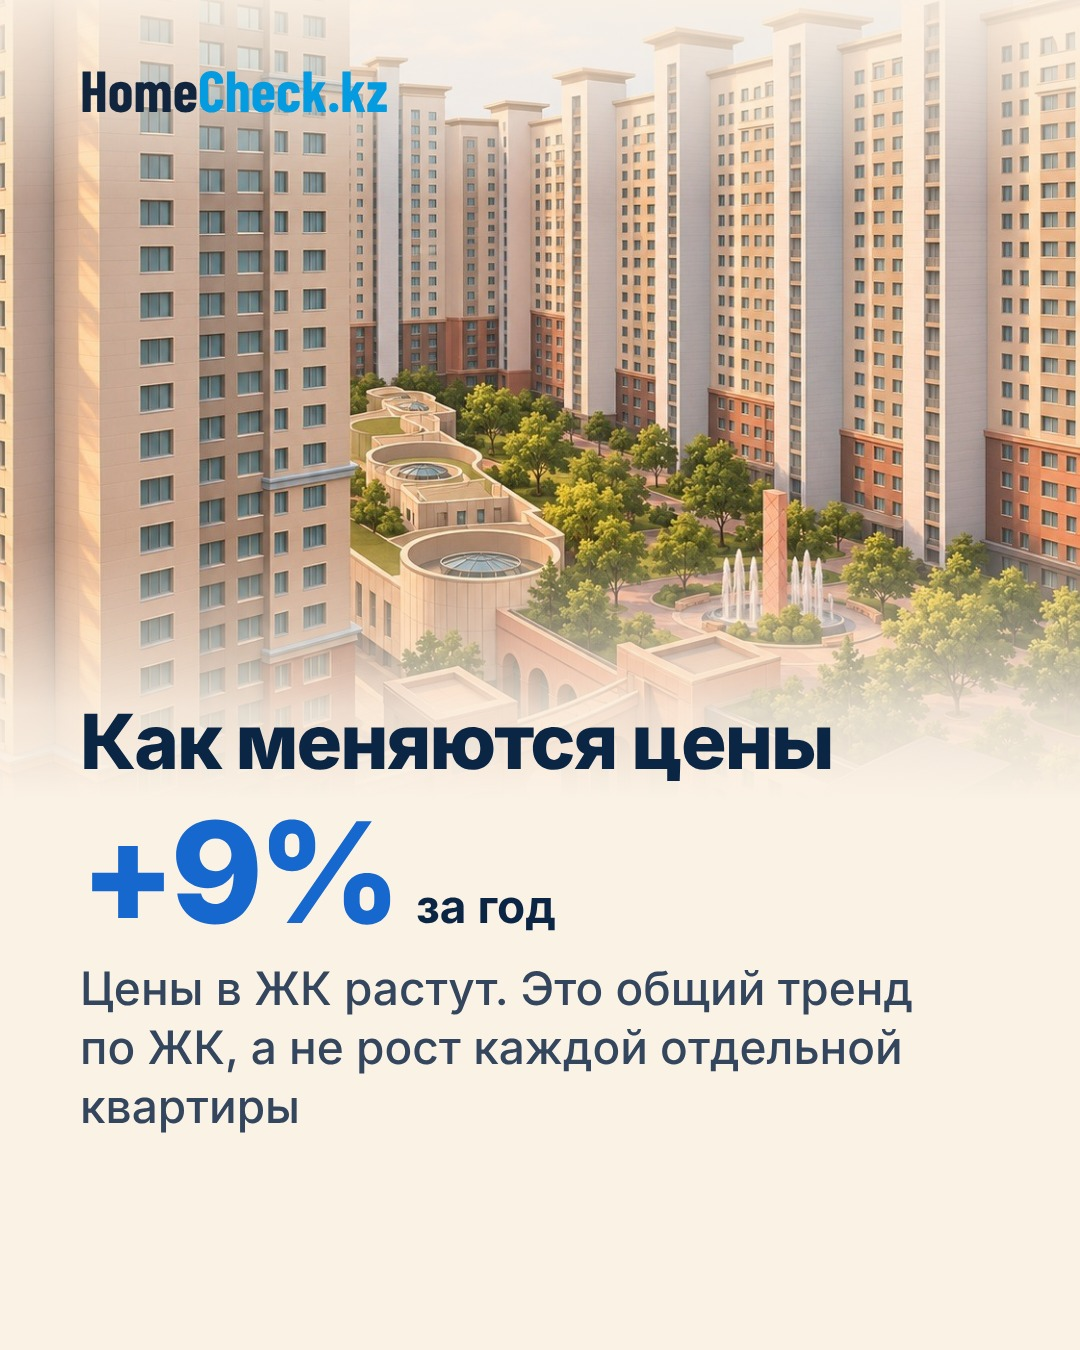
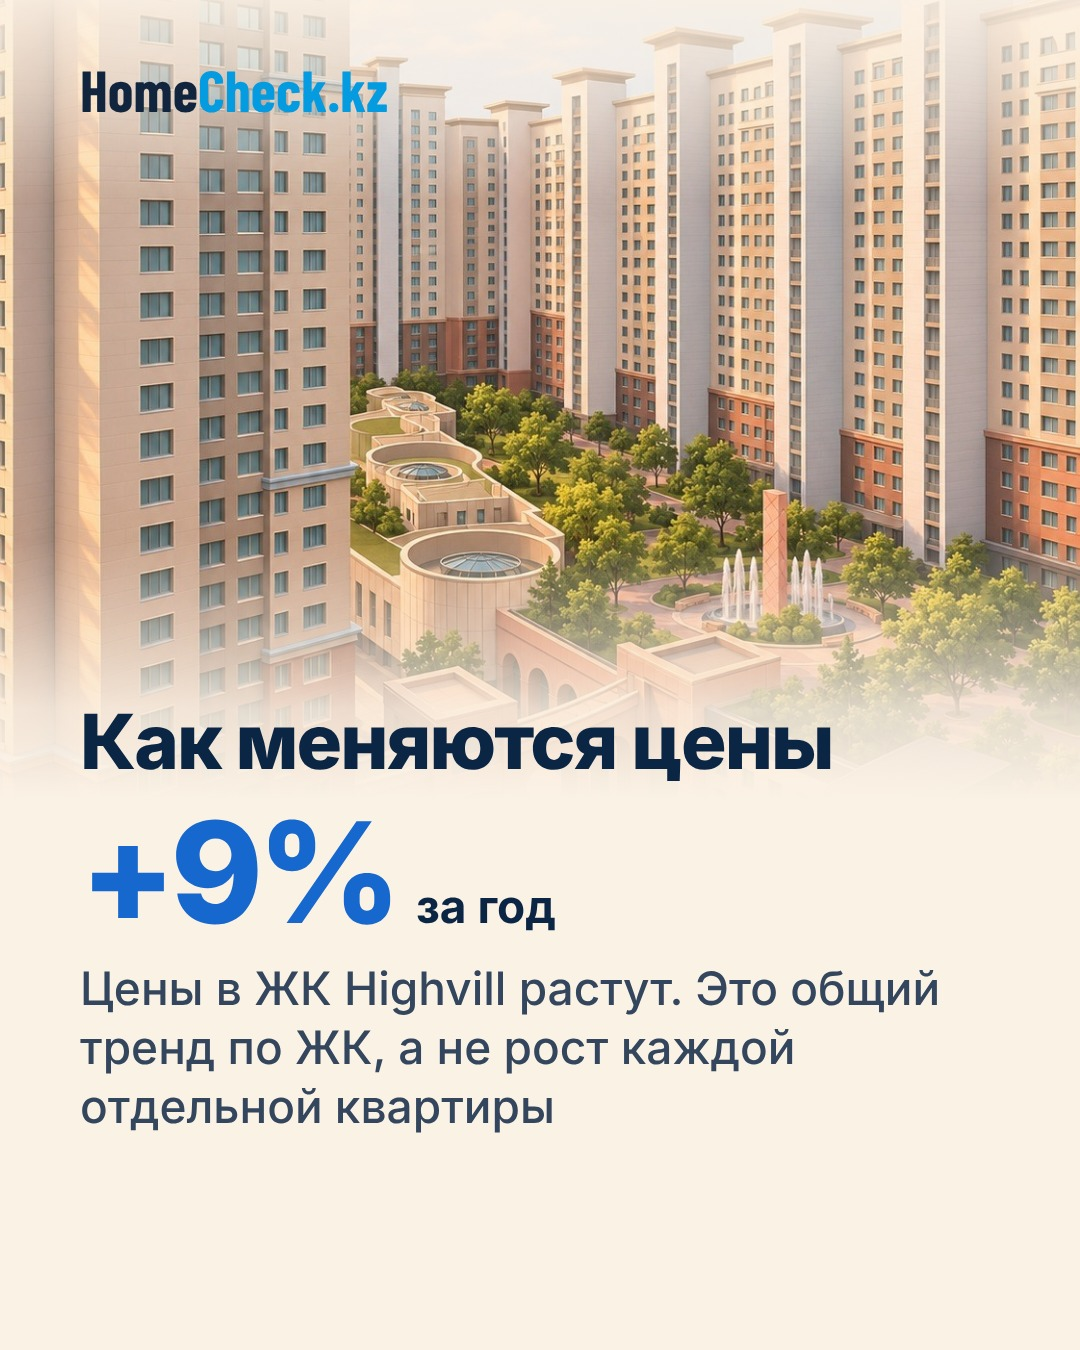
Highvill: «ЖК Highvill» на обложке и слайде 3
Claude-Session: https://claude.ai/code/session_01YPTRhbcfXRBnSeVtmn8ipe

Changed region(s): [[0.0611, 0.7156, 0.8861, 0.84]]

diff --git a/posts/zhk-bez-filtrov-01-hayvill/build.py b/posts/zhk-bez-filtrov-01-hayvill/build.py
@@ -10,7 +10,7 @@ from PIL import Image
 
 HERE = pathlib.Path(__file__).resolve().parent
 NAVY, BLUE, TERRA, CREAM, SKY = '#0B2545', '#1768CE', '#B8613F', '#FBF2E6', '#DCEAF6'
-NAME = 'Highvill'
+NAME = 'ЖК Highvill'
 IMG = {n: data_uri(Image.open(HERE / 'src' / f'{n}.jpg')) for n in ['interior', 'towers', 'aerial', 'courtyard']}
 
 CSS = f"""
@@ -77,7 +77,7 @@ S1 = page(full('aerial', '50% 0%', 520)
 S2 = fact('towers', '50% 12%', 'Сколько стоит метр на&nbsp;самом деле', '≈650', 'тыс. ₸ за м²',
           'Столько обычно платят за&nbsp;метр в&nbsp;реальных сделках. Ориентир, чтобы понять, не&nbsp;завышена ли цена квартиры')
 S3 = fact('aerial', '50% 55%', 'Как меняются цены', '+9%', 'за год',
-          'Цены в&nbsp;ЖК растут. Это общий тренд по&nbsp;ЖК, а&nbsp;не&nbsp;рост каждой отдельной квартиры')
+          'Цены в&nbsp;ЖК Highvill растут. Это общий тренд по&nbsp;ЖК, а&nbsp;не&nbsp;рост каждой отдельной квартиры')
 S4 = fact('interior', '50% 60%', 'Что здесь покупают чаще всего', '60–80', 'м²',
           'Каждая пятая продажа. Обычно такая квартира стоит около 40,5&nbsp;млн&nbsp;₸')
 S5 = fact('courtyard', '50% 88%', 'Сколько владеют до&nbsp;перепродажи', '≈5', 'лет',
